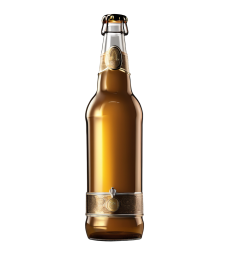
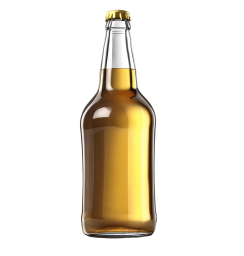
Review fixes: WhiteBishop remade without label, band or emblem (seed 2987039496); GiveAtlasCell and the atlas constants renamed to the stand-in sprite
Subject of the new row: one single brown glass beer bottle with a long neck and a crown cap, golden beer visible, clear glass, nothing printed on it.

Changed region(s): [[0.3156, 0.0312, 0.6598, 0.9688]]

diff --git a/tests/ChessUiBoardTest.cpp b/tests/ChessUiBoardTest.cpp
@@ -614,10 +614,10 @@ namespace BECore::Chess::Tests {
     TEST_F(ChessUiTest, NoCoordinateGlyphReachesAPieceInEitherOrientation) {
         SKIP_WITHOUT_WORKER_THREADS();
         // The width the labels keep clear is the width of a piece that Contain fits into a cell: the real draw of a rook says so
-        const auto whiteA1 = GiveAtlasCell("WhiteRook_a1");
-        const auto whiteH1 = GiveAtlasCell("WhiteRook_h1");
-        const auto blackA8 = GiveAtlasCell("BlackRook_a8");
-        const auto blackH8 = GiveAtlasCell("BlackRook_h8");
+        const auto whiteA1 = GiveSpriteCell("WhiteRook_a1");
+        const auto whiteH1 = GiveSpriteCell("WhiteRook_h1");
+        const auto blackA8 = GiveSpriteCell("BlackRook_a8");
+        const auto blackH8 = GiveSpriteCell("BlackRook_h8");
         const ITexture* const rooks[] = {whiteA1.Get(), whiteH1.Get(), blackA8.Get(), blackH8.Get()};
         CountingFactory factory({New<GatedEngine>(true)});
         Opponent().SetEngineFactory(factory.AsFactory());
@@ -637,7 +637,7 @@ namespace BECore::Chess::Tests {
                         continue;
                     }
                     ++pieces;
-                    // a rook is as wide as its atlas cell says, and the corner cells are the ones whose labels are closest
+                    // a rook is as wide as its cell says, and the corner cells are the ones whose labels are closest
                     EXPECT_NEAR(call.rect.w / call.rect.h, kCellWidth / kCellHeight, 1e-4f);
                     for (const DrawCall& other : _renderer->calls) {
                         if (IsLabelGlyph(other)) {
@@ -736,7 +736,7 @@ namespace BECore::Chess::Tests {
         EXPECT_GT(layerOf("OpponentPanel"), layerOf("Hud"));
 
         // and the frame says the same: squares, then glyphs, then a piece, then the dim of a finished game and the buttons of the HUD
-        const auto king = GiveAtlasCell("WhiteKing_e1");  // a piece that is still on the board in this position (at g1)
+        const auto king = GiveSpriteCell("WhiteKing_e1");  // a piece that is still on the board in this position (at g1)
         StartFrom(kBlackMatesOnA1);
         ASSERT_TRUE(Play(Model(), "a8a1"));
         ASSERT_TRUE(Model().IsGameOver());
@@ -1518,7 +1518,7 @@ namespace BECore::Chess::Tests {
     }
 
     TEST_F(ChessUiTest, TheHintIsDrawnOverTheSquaresAndUnderThePiecesAndASelectionStaysOnTopOfIt) {
-        const auto pawn = GiveAtlasCell("WhitePawn_e2");
+        const auto pawn = GiveSpriteCell("WhitePawn_e2");
         CountingAnalysisFactory factory({New<AnalysingEngine>(AnalysisScore{AnalysisScoreKind::Centipawns, 35}, Mv("e2e4"))});
         Analyst().SetEngineFactory(factory.AsFactory());
         _manager->UpdateAll();
@@ -2650,8 +2650,8 @@ namespace BECore::Chess::Tests {
     }
 
     TEST_F(ChessUiTest, ADraggedPieceIsDrawnOverThePiecesAndTheChipsAndUnderTheHud) {
-        const auto pawn = GiveAtlasCell("WhitePawn_b2");
-        const auto king = GiveAtlasCell("WhiteKing_e1");
+        const auto pawn = GiveSpriteCell("WhitePawn_b2");
+        const auto king = GiveSpriteCell("WhiteKing_e1");
         _manager->UpdateAll();                                      // the pieces register, so that the handles follow the moves
         for (const char* uci : {"e2e4", "d7d5", "e4d5", "d8d5"}) {  // a pawn each is gone: there are chips to draw over, and White is to move
             ASSERT_TRUE(Play(Model(), uci)) << uci;
@@ -2921,7 +2921,7 @@ namespace BECore::Chess::Tests {
             ASSERT_TRUE(ShowPortrait(output));
             ControlPlays(turned ? "white" : nullptr);
             StartFrom(turned ? kBlackToMoveAfterE4 : Position::kStartFen.data());
-            const auto texture = GiveAtlasCell(turned ? "BlackPawn_e7" : "WhitePawn_e2");
+            const auto texture = GiveSpriteCell(turned ? "BlackPawn_e7" : "WhitePawn_e2");
             _manager->UpdateAll();
 
             const int column = EColumn(turned);

diff --git a/tests/ChessUiMaterialTest.cpp b/tests/ChessUiMaterialTest.cpp
@@ -380,7 +380,7 @@ namespace BECore::Chess::Tests {
     }
 
     TEST_F(ChessUiTest, TheMaterialIsDrawnOverThePiecesAndTheResultBarAndUnderTheHudAndThePanels) {
-        const auto king = GiveAtlasCell("WhiteKing_e1");
+        const auto king = GiveSpriteCell("WhiteKing_e1");
         StartFrom(kBlackMatesOnA1);
         ASSERT_TRUE(Play(Model(), "a8a1"));
         ASSERT_TRUE(Model().IsGameOver());
@@ -1154,17 +1154,17 @@ namespace BECore::Chess::Tests {
         }
     }
 
-    TEST_F(ChessUiTest, AnIconKeepsTheAspectOfItsAtlasCellCenteredInsideItsRow) {
-        // The library is empty in the test, so every icon is given the atlas of the pieces and a cell of it by hand; UIImageComponent fits the cell into its rect
+    TEST_F(ChessUiTest, AnIconKeepsTheAspectOfItsSpriteCenteredInsideItsRow) {
+        // The library is empty in the test, so every icon is given the stand-in texture and its tall cell by hand; UIImageComponent fits the cell into its rect
         StartFrom("4k3/8/8/8/8/8/8/4K3 w - - 0 1");
-        const Vector<uint8_t> pixels(static_cast<size_t>(kAtlasWidth) * kAtlasHeight * 4, 0);
-        const IntrusivePtr<ITexture> atlas = _renderer->CreateTexture(pixels.data(), kAtlasWidth, kAtlasHeight);
+        const Vector<uint8_t> pixels(static_cast<size_t>(kStandInTextureWidth) * kStandInTextureHeight * 4, 0);
+        const IntrusivePtr<ITexture> standIn = _renderer->CreateTexture(pixels.data(), kStandInTextureWidth, kStandInTextureHeight);
         for (const char* set : kMaterialSets) {
             for (const char* group : kMaterialGroups) {
                 for (const char* piece : kMaterialPieces) {
                     UIImageComponent* icon = MaterialElement(Format("Material{}{}{}Icon", set, group, piece).c_str()).GetComponent<UIImageComponent>();
                     ASSERT_NE(icon, nullptr) << set << group << piece;
-                    icon->GetSprite().SetTexture(atlas, Rect{kCellX, 0.0f, kCellWidth, kCellHeight});
+                    icon->GetSprite().SetTexture(standIn, Rect{kStandInCellX, 0.0f, kCellWidth, kCellHeight});
                 }
             }
         }
@@ -1178,7 +1178,7 @@ namespace BECore::Chess::Tests {
             const char* set = MaterialPlace() == "panel" ? kMaterialPanelSet : kMaterialMarginSet;
             Vector<const DrawCall*> drawn;
             for (const DrawCall& call : _renderer->calls) {
-                if (call.kind == DrawKind::Texture && call.texture == atlas.Get()) {
+                if (call.kind == DrawKind::Texture && call.texture == standIn.Get()) {
                     drawn.push_back(&call);
                 }
             }
@@ -1189,7 +1189,7 @@ namespace BECore::Chess::Tests {
                     SCOPED_TRACE(Format("{}{}", group, piece).c_str());
                     const Rect& call = drawn[index++]->rect;
                     const Rect box = OutputRect(MaterialElement(Format("Material{}{}{}Icon", set, group, piece).c_str()).rect);
-                    EXPECT_NEAR(call.w / call.h, kCellWidth / kCellHeight, 0.01f) << "the aspect of the atlas cell, not of the box";
+                    EXPECT_NEAR(call.w / call.h, kCellWidth / kCellHeight, 0.01f) << "the aspect of the cell, not of the box";
                     EXPECT_GE(call.x, box.x - 0.5f);
                     EXPECT_GE(call.y, box.y - 0.5f);
                     EXPECT_LE(call.x + call.w, box.x + box.w + 0.5f) << "inside its box";

diff --git a/tests/ChessUiHarness.h b/tests/ChessUiHarness.h
@@ -106,9 +106,9 @@ namespace BECore::Chess::Tests {
         const Color kPremoveColor{150, 90, 200, 150};   // the two squares of each queued premove, one color for all
 
         // A tall cell standing in for a piece sprite: the library is empty in the test environment, so a test that needs a sprite's size gives it this cell.
-        constexpr uint32_t kAtlasWidth = 700;
-        constexpr uint32_t kAtlasHeight = 381;
-        constexpr float kCellX = 583.33f;
+        constexpr uint32_t kStandInTextureWidth = 700;
+        constexpr uint32_t kStandInTextureHeight = 381;
+        constexpr float kStandInCellX = 583.33f;
         constexpr float kCellWidth = 116.67f;
         constexpr float kCellHeight = 190.5f;
         constexpr size_t kPieceCount = 32;
@@ -470,7 +470,7 @@ namespace BECore::Chess::Tests {
             {"Wide view", {1280.0f, 720.0f}, {kWideNarrowestWidth, kNarrowestHeight}, kWideViewWidth, kViewHeight, kBoardLeft, kBoardTop, false},
             {"Tall view", {kNarrowestWidth, kNarrowestTallHeight}, {kNarrowestWidth, kNarrowestTallHeight}, kPortraitViewWidth, kTallViewHeight, kPortraitBoardLeft, kPortraitBoardTop, true}};
         constexpr size_t kBoardEdgeCells = kLastBoardIndex + 1;
-        constexpr float kPieceWidth = kCellSize * kCellWidth / kCellHeight;  // a piece fitted by Contain is as high as its cell, as wide as the aspect of its atlas cell, and centered
+        constexpr float kPieceWidth = kCellSize * kCellWidth / kCellHeight;  // a piece fitted by Contain is as high as its cell, as wide as the aspect of its stand-in cell, and centered
         constexpr float kPieceLeft = (kCellSize - kPieceWidth) * 0.5f;       // 15.5 units from the left edge of the cell
         constexpr float kPieceRight = kPieceLeft + kPieceWidth;              // 64.5 units
         constexpr float kLabelBand = 30.0f;                                  // a rank number lies in the top 30 units of its cell, a file letter in the bottom 30 (the boxes are 2..28 and 52..78)
@@ -1995,15 +1995,15 @@ namespace BECore::Chess::Tests {
             return {};
         }
 
-        /// Gives the sprite of a piece the texture and the cell of the atlas that the library gives it in the game (the library is empty here), and returns the texture
-        IntrusivePtr<ITexture> GiveAtlasCell(const char* nodeName) const {
+        /// Gives the sprite of a piece the stand-in texture and its tall cell (the library is empty here), and returns the texture
+        IntrusivePtr<ITexture> GiveSpriteCell(const char* nodeName) const {
             auto sprite = PieceSprite(nodeName);
             EXPECT_TRUE(sprite) << nodeName;
-            const Vector<uint8_t> pixels(static_cast<size_t>(kAtlasWidth) * kAtlasHeight * 4, 0);
-            IntrusivePtr<ITexture> texture = _renderer->CreateTexture(pixels.data(), kAtlasWidth, kAtlasHeight);
+            const Vector<uint8_t> pixels(static_cast<size_t>(kStandInTextureWidth) * kStandInTextureHeight * 4, 0);
+            IntrusivePtr<ITexture> texture = _renderer->CreateTexture(pixels.data(), kStandInTextureWidth, kStandInTextureHeight);
             if (sprite) {
                 sprite->SetTexture(texture);
-                sprite->_srcRect = Rect{kCellX, 0.0f, kCellWidth, kCellHeight};
+                sprite->_srcRect = Rect{kStandInCellX, 0.0f, kCellWidth, kCellHeight};
             }
             return texture;
         }

diff --git a/tests/ChessUiScreenTest.cpp b/tests/ChessUiScreenTest.cpp
@@ -206,13 +206,13 @@ namespace BECore::Chess::Tests {
             ++pieces;
             const auto sprite = node->GetComponent<SpriteRendererComponent>();
             ASSERT_TRUE(sprite) << node->GetName().CStr();
-            EXPECT_EQ(sprite->_fit, SpriteFit::Contain) << node->GetName().CStr() << ": the atlas cell is not square, Stretch would draw the piece squat";
+            EXPECT_EQ(sprite->_fit, SpriteFit::Contain) << node->GetName().CStr() << ": the sprite cell is not square, Stretch would draw the piece squat";
         }
         EXPECT_EQ(pieces, kPieceCount);
     }
 
     TEST_F(ChessUiTest, APieceKeepsTheAspectOfItsCellInsideItsSquare) {
-        const auto texture = GiveAtlasCell("WhitePawn_e2");
+        const auto texture = GiveSpriteCell("WhitePawn_e2");
         _manager->UpdateAll();  // ChessPieceComponent writes the transform of the piece in an update: the node starts at 0, 0
         Draw();
 
@@ -224,11 +224,11 @@ namespace BECore::Chess::Tests {
         EXPECT_LT(piece->rect.w, square.w);
         EXPECT_TRUE(IsCenteredIn(piece->rect, square));
         ASSERT_TRUE(piece->source.has_value());
-        EXPECT_TRUE(SameRect(*piece->source, Rect{kCellX, 0.0f, kCellWidth, kCellHeight})) << "the fit changes the destination, not the part of the atlas";
+        EXPECT_TRUE(SameRect(*piece->source, Rect{kStandInCellX, 0.0f, kCellWidth, kCellHeight})) << "the fit changes the destination, not the part of the texture";
     }
 
     TEST_F(ChessUiTest, TheSelectionAndTheLegalMovesSitAroundThePiece) {
-        const auto texture = GiveAtlasCell("WhitePawn_e2");
+        const auto texture = GiveSpriteCell("WhitePawn_e2");
         _manager->UpdateAll();
         Model().OnSquareClicked(Sq("e2"));
         ASSERT_TRUE(Model().HasSelection());
@@ -257,7 +257,7 @@ namespace BECore::Chess::Tests {
     }
 
     TEST_F(ChessUiTest, TheCheckSitsAroundTheKing) {
-        const auto texture = GiveAtlasCell("BlackKing_e8");
+        const auto texture = GiveSpriteCell("BlackKing_e8");
         _manager->UpdateAll();  // the pieces register with the model in the first update; moves played before it would be dealt to them by square, not by identity
         for (const char* uci : {"e2e4", "f7f6", "d1h5"}) {
             ASSERT_TRUE(Play(Model(), uci)) << uci;

diff --git a/tests/ChessUiMovePanelTest.cpp b/tests/ChessUiMovePanelTest.cpp
@@ -315,7 +315,7 @@ namespace BECore::Chess::Tests {
     }
 
     TEST_F(ChessUiTest, TheMovePanelIsDrawnOverThePiecesAndTheResultBarAndUnderTheHudAndThePanels) {
-        const auto king = GiveAtlasCell("WhiteKing_e1");
+        const auto king = GiveSpriteCell("WhiteKing_e1");
         StartFrom(kBlackMatesOnA1);
         ASSERT_TRUE(Play(Model(), "a8a1"));
         ASSERT_TRUE(Model().IsGameOver());

diff --git a/THIRD_PARTY_NOTICES.md b/THIRD_PARTY_NOTICES.md
@@ -30,7 +30,7 @@ game.
 | `assets/artgen/WhiteQueen.artgen.json` | the provenance of `WhiteQueen.png`: model files, prompt, seed, preset, the processing at Accept | Beerware | `LICENSE` | desktop only (kept out of the web package) |
 | `assets/artgen/WhiteRook.png` | the white rook of the beer set (a beer barrel, light golden beer), 244x256, generated with SDXL base 1.0 and BiRefNet (`/artgen`, preset `chess_piece`, seed 1627044269), picked by eye | Beerware; the model's output under the CreativeML OpenRAIL++-M licence of SDXL base 1.0 (use restrictions of its attachment A; the output may be used commercially, `engine/tools/artgen/comfyui/manifest.json`) | `LICENSE` | ships (desktop and web) |
 | `assets/artgen/WhiteRook.artgen.json` | the provenance of `WhiteRook.png`: model files, prompt, seed, preset, the processing at Accept | Beerware | `LICENSE` | desktop only (kept out of the web package) |
-| `assets/artgen/WhiteBishop.png` | the white bishop of the beer set (a beer bottle without a label, light golden beer), 244x256, generated with SDXL base 1.0 and BiRefNet (`/artgen`, preset `chess_piece`, seed 3645578528), picked by eye | Beerware; the model's output under the CreativeML OpenRAIL++-M licence of SDXL base 1.0 (use restrictions of its attachment A; the output may be used commercially, `engine/tools/artgen/comfyui/manifest.json`) | `LICENSE` | ships (desktop and web) |
+| `assets/artgen/WhiteBishop.png` | the white bishop of the beer set (a beer bottle without a label, light golden beer), 244x256, generated with SDXL base 1.0 and BiRefNet (`/artgen`, preset `chess_piece`, seed 2987039496), picked by eye | Beerware; the model's output under the CreativeML OpenRAIL++-M licence of SDXL base 1.0 (use restrictions of its attachment A; the output may be used commercially, `engine/tools/artgen/comfyui/manifest.json`) | `LICENSE` | ships (desktop and web) |
 | `assets/artgen/WhiteBishop.artgen.json` | the provenance of `WhiteBishop.png`: model files, prompt, seed, preset, the processing at Accept | Beerware | `LICENSE` | desktop only (kept out of the web package) |
 | `assets/artgen/WhiteKnight.png` | the white knight of the beer set (a drinking horn, light golden beer), 244x256, generated with SDXL base 1.0 and BiRefNet (`/artgen`, preset `chess_piece`, seed 3645578529), picked by eye | Beerware; the model's output under the CreativeML OpenRAIL++-M licence of SDXL base 1.0 (use restrictions of its attachment A; the output may be used commercially, `engine/tools/artgen/comfyui/manifest.json`) | `LICENSE` | ships (desktop and web) |
 | `assets/artgen/WhiteKnight.artgen.json` | the provenance of `WhiteKnight.png`: model files, prompt, seed, preset, the processing at Accept | Beerware | `LICENSE` | desktop only (kept out of the web package) |
